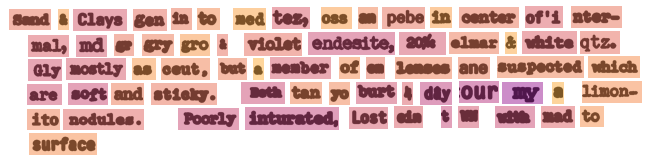
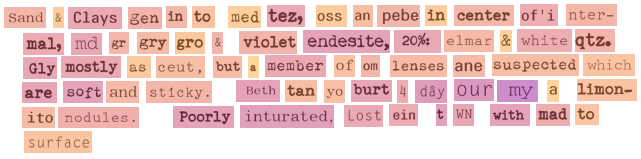
add rendered image without degradation

diff --git a/README.md b/README.md
@@ -17,12 +17,13 @@ Here's an example of how the tool visualizes a rendered version that matches a d
 ![Example Word Visualization](images/example_word.png)
 
 
-And here is an example of an orginal pdf paragraph with Azure OCR quality scores (top) and the a rendered version of the extracted words with simulated degradation (bottom). Deeper blues indicate low quality scores, pinks intermediate, and yellow high quality scores.
+And here is an example of an orginal pdf paragraph with Azure OCR quality scores (top), the a rendered version of the extracted words with simulated degradation (middle), the rendered version of the extracted text _without_ degradation (bottom). Note that the rendered words are those obtained from the Azure OCR pipeline. Deeper blues indicate low quality scores, pinks intermediate, and yellow high quality scores.
 
 ![Extracted Paragraph](images/extracted_paragraph.png)
 
-![Rendered Paragraph](images/rendered_paragraph.png)
+![Rendered Paragraph](images/rendered_degraded_paragraph.png)
 
+![Rendered Paragraph](images/rendered_paragraph.png)
 
 ## Installation
 
